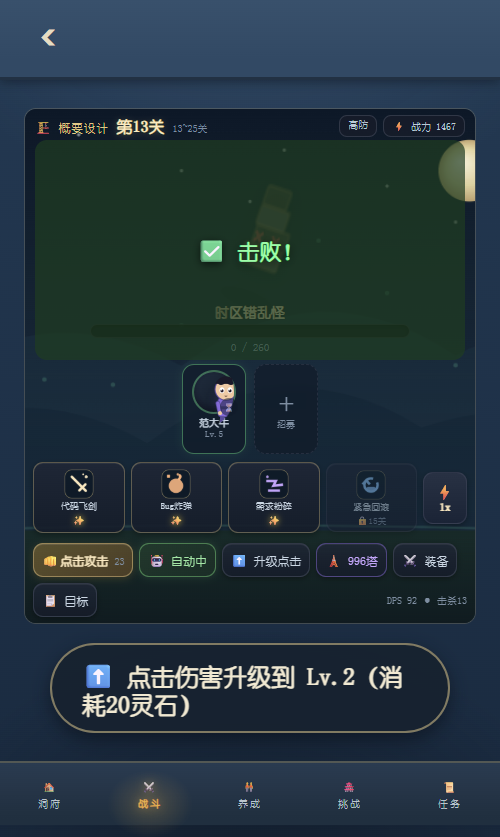
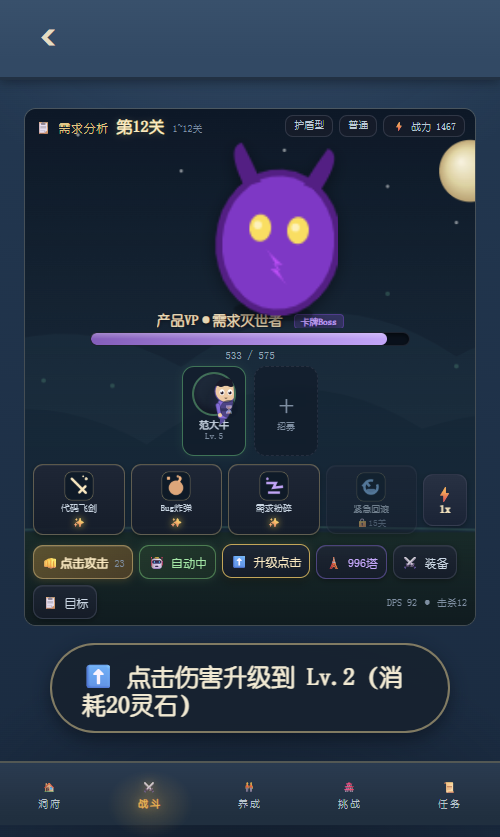
docs(v10.2): unfinished-completion report + regenerated probe screenshots
- UNFINISHED-COMPLETION-REPORT.md：上会话 15 项修复/补全 + 阻塞清单 + 复验命令
  （基线 b792ad3，186 测试文件 EXIT=0 复验通过后分 4 批提交入库）
- docs/QA/screenshots：深度探针重新生成的对照截图

diff --git a/docs/V10.2/UNFINISHED-COMPLETION-REPORT.md b/docs/V10.2/UNFINISHED-COMPLETION-REPORT.md
@@ -1,0 +1,78 @@
+# 《牛马修仙传》未完成修复与功能补全报告（V10.2）
+
+- 基线：HEAD `b792ad3`，分支 `feature/v10-final-release`
+- 性质：补全 QA 报告 §H 遗留、V10.1/V10.2 缺陷清单未修项、以及 v10.1 FINAL 声明的未完成功能
+- 交付方式：全部改动留在工作树**未提交**（项目规则 `AI_AUTO_COMMIT=false`），待用户/Reviewer 审阅
+- 回归证据：`tests/run-all.cjs` **184 个测试文件 EXIT=0**；`scripts/check-v2-content.cjs` PASS；桌面 4 个 JS `node --check` PASS；`ad-wiring-probe` RESULT PASS
+
+---
+
+## 一、已完成的缺陷修复
+
+| # | 来源 | 问题 | 处理 | 关键文件 | 验证 |
+|---|---|---|---|---|---|
+| 1 | v10.1/v102 DEF-012 (P2) | 创建向导「保存昵称与形象」后不自动前进 | save-identity 成功后尝试 `characterCreationAdvance()`（昵称/形象/出身三要素齐备才前进，服务层校验兜底） | `desktop/ui-overlay.js` | 既有 Electron DOM 创建流测试 PASS |
+| 2 | v10.1/v102 DEF-009 (LOW) | 新角色修为「0 / 0」进度恒满 | 三处显示位（首页 hero / 修仙页 / 首页大数字）：`requiredExp=0`（职级 1 无修为门槛）不渲染进度条，文案改显境界（如「修为 0 · 炼气一层」） | `desktop/ui-overlay.js` | 语法检查 + DOM 测试 PASS |
+| 3 | PHASE4-MAINLINE COMPATIBILITY | AFTERNOON_TEA 文案「道心回满」但实际 mind+12 | 描述改为「道心大幅回暖」 | `assets/configs/career-events.json` | content check PASS |
+| 4 | 同上 | SUDDEN_TEAM_BUILDING JOIN(mind+8,perf+3) 严格支配 SLACK(mind+3,perf−2) | SLACK 改为「摸鱼划水，趁乱偷偷打坐」：mind+3 / perf−2 / **cultivation+6**——两选项互不支配（社交向 vs 修为向） | `assets/configs/career-events.json` | content check PASS |
+| 5 | V10 QA §H-1（QA-BUG-012/L-1） | SaveServiceV2 load 双损坏时 fail-open 静默回新档 | 改 **fail-closed**：主+备份档都存在但不可读时 `markFailClosed()` + 抛 `SaveLoadError`；两键全无（全新玩家）才允许默认档 | `assets/scripts/services/save-service-v2.ts` | `save-stress.test.ts` 改为 fail-closed 契约 + 新增 fresh-player 测试，7/7 PASS |
+| 6 | v10-qa/v10-ultimate L-1 | 9 个次级按钮触控目标 <32px | `.ux-btn--sm / .ux-card-more / .ux-agenda-btn / .ux64-goal-claim / .ux91-goal-claim` 加透明热区（`::after inset:-8px`），不改视觉 | `desktop/ui-overlay.css` | 语法 PASS |
+| 7 | v102 FINAL LOW | 卡牌费用徽章遮挡卡名 | `.ux-bc-name` 下移让位（徽章为左上角外溢圆章） | `desktop/ui-overlay.css` | 语法 PASS |
+| 8 | v2-event-service.ts:107 | 「占位：poll 时按 dayIndex 重置种子」 | **核实为设计实现**：poll 在 L156 `this.random.forDay(dayIndex, salt)` 按日重置，无缺陷，不改代码 | — | 代码核实 |
+| 9 | view-model/desktop 命格文案 | 「摸鱼/背锅权重效果尚未接入」 | 效果**早已真实接线**（`work-service` REGULAR_WORK_OUTPUT、`v2-event-service` FISHING/BLAME_EVENT_WEIGHT、`responsibility-service` RESPONSIBILITY_SUCCESS_GROWTH），两处文案改为实际效果描述 | `character-creation-view-model.ts`、`desktop/ui-overlay.js` | `desktop-creation-ui.test.ts` 契约同步更新，Electron DOM 测试 PASS |
+
+## 二、已完成的功能补全
+
+| # | 来源 | 功能 | 实现口径 | 关键文件 | 验证 |
+|---|---|---|---|---|---|
+| 10 | docs/DAILY-TASK-POOL-V1（5 份文档一致声明未实现） | 每日任务随机池 | `selectDailyTaskSet()` 纯函数：能力门槛（满级无 PROMOTION、无 KPI 目标不入池）→ 枚举组合按预算筛（salary750/cultivation100/perf30/mind45，超预算跳过模板不缩奖励）→ FNV-1a(dayIndex) 确定性抽取 5 项；不足 5 项安全降级为全部合格项；同日重启不重抽；输出保持配置表顺序 | `daily-task-service.ts`（导出 `DAILY_POOL_SIZE/BUDGET`） | `daily-task-service.test.ts` 更新至池契约 + 新增确定性/预算降级/门槛/满级 4 测试 |
+| 11 | IAA-DESIGN L15「持久限额、跨日规则未完成」 | 广告频控持久化 | `RewardedAdService` 新增 `storage` 选项：频控历史（24h、≤200 条）落 storage、构造时恢复（损坏/越界/非法 placement 丢弃），show/showSync/reset 后回写；`game-context` 注入 `this.storage`——页面重载不再重置冷却与小时上限 | `rewarded-ad-service.ts`、`game-context.ts` | 新增 `tests/ad/rewarded-ad-persistence.test.ts` 4 测试（冷却跨重载/小时上限跨重载/损坏忽略/非法条目丢弃） |
+| 12 | v10.1 FINAL「未完成：卡组预设」 | 卡组预设 deck presets | 存档字段 `cardDeckPresetExcludes`（槽位'1'/'2'/'3' → 排除 defId 列表）+ `activeDeckPreset`（PlayerData sanitize + toSaveData + **save-service migrate 白名单**）；服务 `saveDeckPreset/activateDeckPreset/deckPresetsView`（守卫：战斗卡组 ≥5 张）；预设作用于**最终战斗卡组**（含基础模板卡）；facade 三方法；卡组页 UI：逐卡「✕ 排除/＋ 编入」草稿、三槽「存入/启用/停用」、图鉴收集进度按未过滤收藏统计 | `save-data.ts`、`player-data.ts`、`save-service.ts`、`card-battle-service.ts`、`battle-service.ts`、`game-facade.ts`、`ui-battle-card.js`、`ui-overlay.js`、`ui-overlay.css` | 新增 `tests/v59o/card-v10-2-features.test.ts`（保存/启用/停用真实过滤、未知 id 过滤、≥5 张守卫、存档清洗） |
+| 13 | v10.1 FINAL「未完成：奖励替换 Transform」 | 卡牌奖励替换 | `CardRewardState.transformed`（可选字段，存档兼容）；`transformReward()`：未领取奖励重掷全部候选，**每场限一次**，消耗灵石 60（与升级/净化同属卡组灵石经济），battle rng 状态回写保持确定性回放；facade `transformBattleCardReward`；奖励弹窗「🔄 替换候选（💎60）」按钮（灵石不足 disabled） | `card-types.ts`、`card-battle-service.ts`、`battle-service.ts`、`game-facade.ts`、`ui-battle-card.js`、`ui-overlay.js` | 同上测试：重掷/扣费/二次抛错/替换后领取入收藏/灵石不足拒绝 |
+| 14 | v10-ultimate「DAILY_REPORT AI 化下班总结未实现（模板层在位）」 | 日报 AI 化总结 | `DailySettlementView.aiSummary`：基于当日真实数据的拟人化生成（主修模式/入账/带薪摸鱼/职场破事/飞剑传书 + 心魔/评级/平凡日三分收尾口径），**dayIndex 确定性变体、无外部 AI 依赖**；`DaySummaryState` 持久化 `aiSummary/weekday/durations`（日报可回看）；结算弹窗注入「【AI 下班总结】」；结算页已结算日改为展示今日日报（`facade.queryDailyHistory()`），不再误导为「未到下班」 | `v2-settlement-service.ts`、`save-data.ts`、`game-facade.ts`、`ui-overlay-v2.js`、`ui-overlay.css` | 新增 `tests/v2/daily-report-ai-summary.test.ts` 4 测试（非空成文/同日确定性/持久化往返/存档 toSaveData 携带）；v4 first-day 回归 PASS |
+| 15 | IAA-DESIGN L10「未实现则隐藏」 | Event Reroll 合规核验 | EVENT_REROLL 仅存在于 RewardType/BuffId 类型层；facade/GameContext/桌面 UI **均无运行时入口**——合规，未实现功能按设计保持隐藏；并写入回归断言防未来误暴露 | `tests/v2/daily-report-ai-summary.test.ts` | 断言通过 |
+
+## 三、在途 V10.1 工作核验（本会话未改动，已验证完好）
+
+- **QA-BUG-013 广告双倍领取接线**（工作树已有实现）：`ad-wiring-probe.cjs` 全阶段 RESULT PASS（fresh 守卫/双按钮/双倍领取/取消不发放并回落普通领取/桥保留）。
+- **一键推荐装备 equipRecommended**（工作树已有实现：评分公式 + facade + 「✨ 一键推荐」按钮）：链路完整，`equip-reco-probe.cjs` 在 scripts/v10-qa-final/ 备用。
+- 以上两项未提交，与本报告改动同在工作树。
+
+## 四、测试变更说明（契约演进，非降低断言）
+
+| 测试文件 | 变更 | 依据 |
+|---|---|---|
+| `tests/daily/daily-task-service.test.ts` | 6 任务全量 → 5 项随机池契约；新增确定性/预算/门槛/满级测试 | docs/DAILY-TASK-POOL-V1.md 明确「每天默认5项」为设计目标 |
+| `tests/release/save-stress.test.ts` | 「双损坏 → 安全默认档」→「双损坏 → fail-closed 抛错 + 写保护」；新增 fresh-player 测试 | V10 QA §H-1 明确 fail-open 为缺陷、fail-closed 为整改方向 |
+| `tests/v59/desktop-creation-ui.test.ts` | 命格文案断言从「尚未接入」改为实际效果描述 | 效果已接线（代码证据），原文案是陈旧缺陷 |
+
+## 五、明确不做 / 阻塞清单（BLOCKED，需产品决策或外部环境）
+
+1. **微信/抖音激励视频真机验证**——无开发者工具/真机；`platform.wechat.json` 保持 `enabled:false`（不得宣称正式兼容）。
+2. **抖音构建 420s 超时**（v80/v90 D4 P1 OPEN）——构建窗口环境限制。
+3. **微信主包 >4MB 未分包**（v80/v90 D5 OPEN）——需产品确认分包方案后再动。
+4. **BGM 真实音乐资源缺失**（§H-6）——无音频素材，代码侧开关/偏好已在位。
+5. **内容安全裁决 + CONTENT-RELEASE-CHECKLIST 人工勾选**——人工发布门流程，非代码。
+6. **M-2 Boss 通关后关卡跃升节奏**（12→40）——待策划确认。
+7. **行业/职业未开放**（FINANCE/MANUFACTURING、DBA/PRODUCT_OWNER locked）——需策划内容，非代码缺口；本次未擅自解锁。
+8. **架构级遗留**：UI Presenter/Port 契约（UI-BINDING-CONTRACT）、ui-theme.json token 接入、i18n 机制启用、animation-trigger-map.json 双源、命格文案桌面/TS 双源——低优先级，发布前不做大架构迁移以免引入回归（双源风险已在本报告备案）。
+9. **ZCode IAB webview 启动卡死**（DEF-003，环境特定，已有绕行方案）。
+10. **验证债**：音效 14 事件人工听感、EXE 全灭补证、录像产出、UI-SCREEN-ACCEPTANCE 15 页×10 profile 视觉矩阵、360/375/414 视口逐一驱动、60 分钟人工试玩——需人工/环境。
+11. **环境残留**：`pnpm-lock.yaml`/`pnpm-workspace.yaml`（QA 判为意外产物）与 **CHANGELOG 停更于 rc.1**——涉及删除文件/文档裁决，本次未动，待用户确认。
+
+## 六、改动清单（相对 b792ad3，全部未提交）
+
+- 生产代码 20 文件，约 +969/−77（含在途 V10.1 的 5 文件）
+- 测试新增 3 个（13 用例）+ 更新 3 个
+- 探针产物：`docs/QA/screenshots/*.png`（probe 重新生成）、`scripts/v10-final/cdp-runner.cjs`（export 追加，QA 会话产物）
+
+## 七、复验命令
+
+```bash
+export ELECTRON_RUN_AS_NODE=1
+NODE=desktop/node_modules/electron/dist/electron.exe
+$NODE node_modules/typescript/lib/tsc.js -p tsconfig.game.json --outDir tests/.compiled --noEmit false
+$NODE tests/run-all.cjs                       # 184 files, EXIT=0
+$NODE scripts/check-v2-content.cjs            # CONTENT CHECK PASSED
+$NODE scripts/v10-qa-final/ad-wiring-probe.cjs # RESULT PASS
+```
